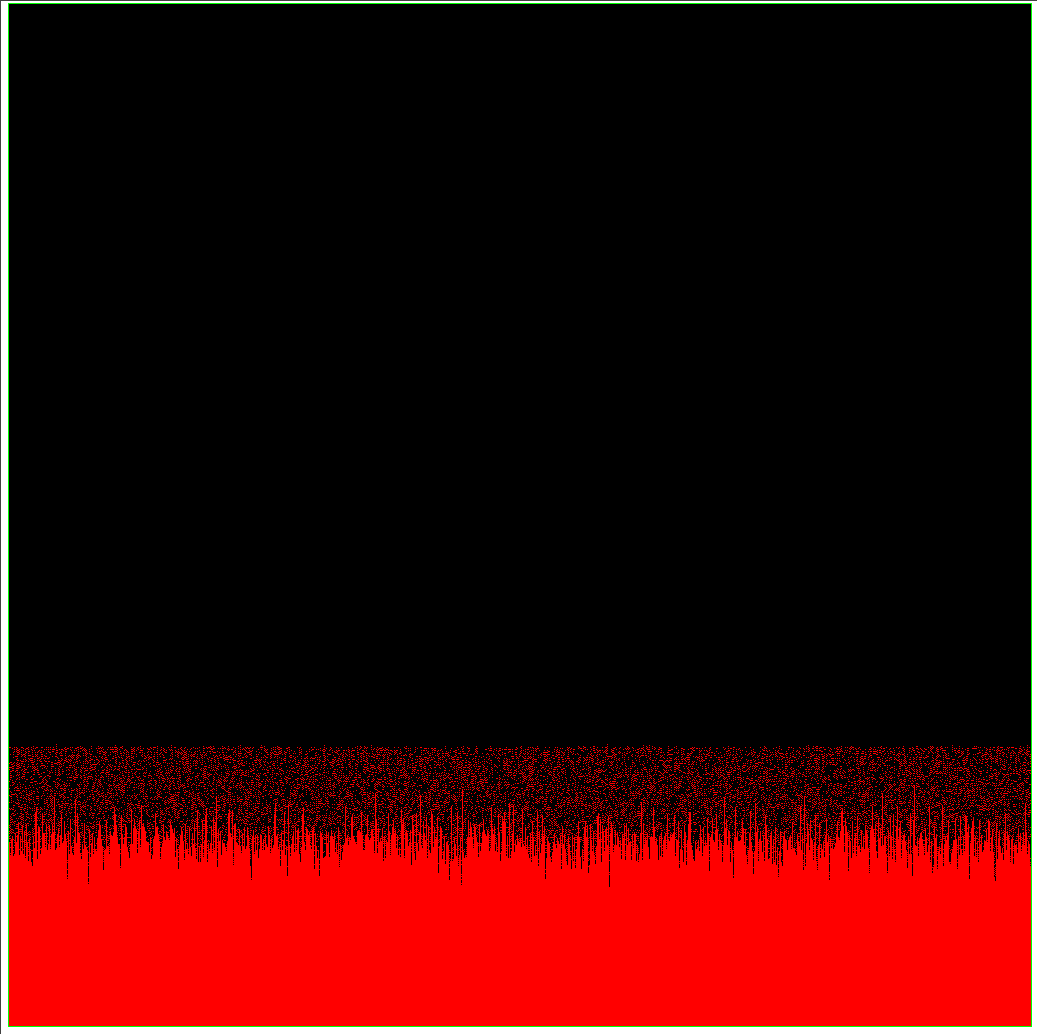
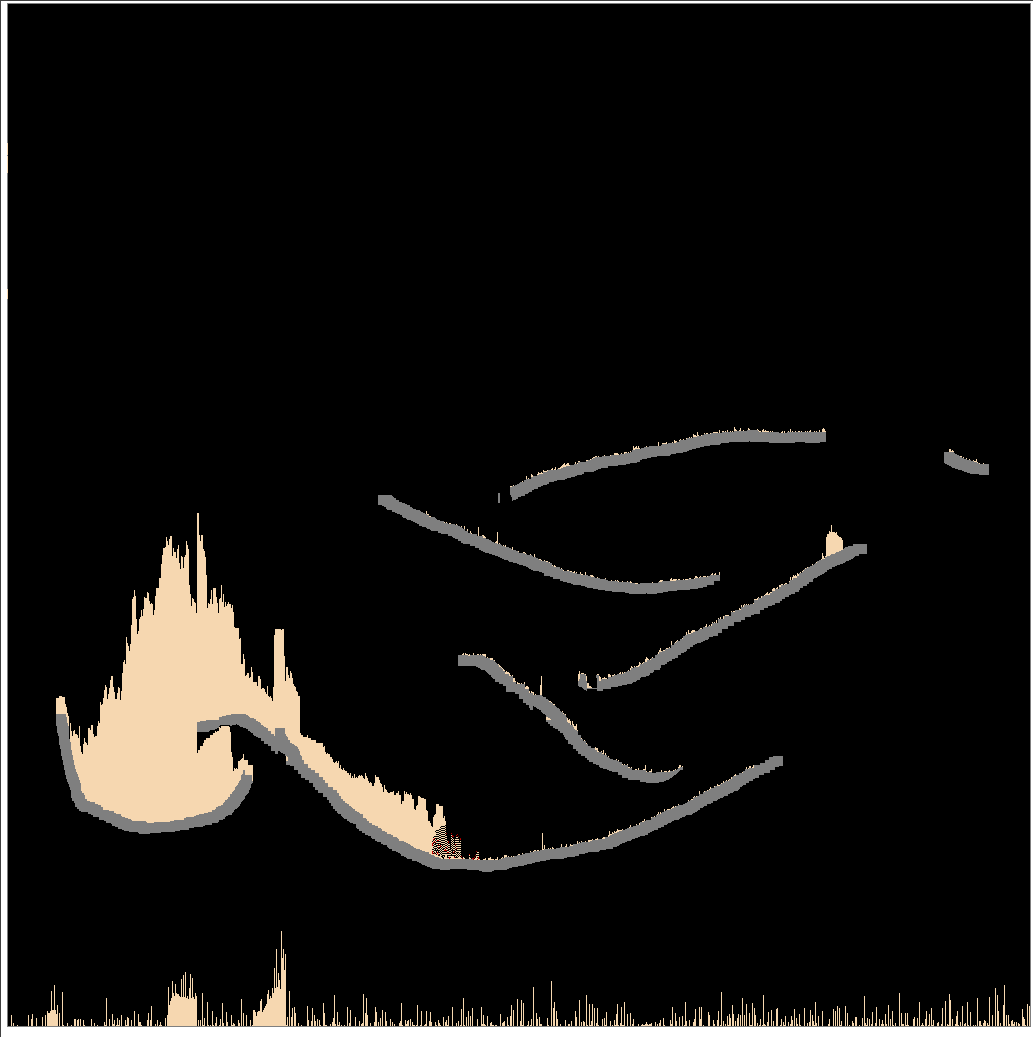
add simple fire

diff --git a/index.js b/index.js
@@ -32,59 +32,92 @@ const vertex_shader = `
   }
 `
 
+const sand = [ 246, 215, 176, 255 ]
+const wall = [ 127, 127, 127, 255 ]
+const empty = [ 0, 0, 0, 255 ]
+const fire = [ 255, 0, 0, 255 ]
+const fireB1 = [ 204, 0, 0, 255 ]
+const fireB2 = [ 153, 0, 0, 255 ]
+
 // TODO: get the passed in scale to work
 const fragment_shader = `
-  precision mediump float;
+  precision highp float;
   uniform sampler2D state;
   // uniform vec2 scale;
+  uniform highp float seed;
   #define scale vec2(1024.0, 1024.0)
 
-  int get(int x, int y) {
-    return int(texture2D(state, (gl_FragCoord.xy + vec2(x, y)) / scale).r);
-  }
+  // 246,215,176
+  #define sand vec4(0.9647058823529412, 0.8431372549019608, 0.6901960784313725, 1.0)
+  // 127,127,127
+  #define wall vec4(0.4980392156862745, 0.4980392156862745, 0.4980392156862745, 1.0)
+  // 0,0,0
+  #define empty vec4(0.0, 0.0, 0.0, 1.0)
 
-  int getborder(int x, int y) {
-    return int(texture2D(state, (gl_FragCoord.xy + vec2(x, y)) / scale).g);
+  // 255, 0, 0
+  #define fire vec4(1.0, 0.0, 0.0, 1.0)
+  // 204, 0, 0
+  #define fire_burnout_1 vec4(0.8, 0.0, 0.0, 1.0)
+  // 153, 0, 0
+  #define fire_burnout_2 vec4(0.6, 0.0, 0.0, 1.0)
+
+  vec4 get(int x, int y) {
+    return vec4(texture2D(state, (gl_FragCoord.xy + vec2(x, y)) / scale));
+  }
+  
+  float rand(vec2 co){
+    return fract(sin(dot(co, vec2(12.9898, 78.233))) * 43758.5453);
   }
 
   void main() {
-    bool iswall = getborder(0, 0) > 0;
+    vec4 current = vec4(get(0, 0));
+    bool iswall = current == wall;
+    bool sandontop = get(0, 1) == sand;
+    bool onbottom = get(0, -1) == sand || get(0, -1) == wall;
+    bool issand = current == sand;
 
-    bool particleontop = get(0, 1) > 0;
-    bool wallonbottom = getborder(0, -1) > 0;
-    bool particleonbottom = get(0, -1) > 0;
-    bool onbottom = wallonbottom || particleonbottom;
-    bool filled = get(0, 0) > 0;
-
-    /*if (scale.x == 1024.0) {
-      gl_FragColor = vec4(0.0, 0.0, 1.0, 1.0);
-    } else if (scale.x > 1024.0) {
-      gl_FragColor = vec4(1.0, 0.0, 0.0, 1.0);
-    } else if (scale.x == 0.0 && scale.y == 0.0) {
-      gl_FragColor = vec4(0.0, 1.0, 1.0, 1.0);
-    }*/
+    bool isfireadjacent =
+      get(0, -1) == fire ||
+      get(1, -1) == fire ||
+      get(-1, -1) == fire ||
+      get(1, 0) == fire ||
+      get(-1, 0) == fire ||
+      get(1, 1) == fire ||
+      get(-1, 1) == fire;
 
     if (iswall) {
-      gl_FragColor = vec4(0.0, 1.0, 0.0, 1.0);
+      gl_FragColor = wall;
     } else {
-      // particle lands on something = filled
-      if (filled && onbottom) {
-        gl_FragColor = vec4(1.0, 0.0, 0.0, 1.0);
-      }
+      if (issand) {
+        // particle exposed to fire = fire
+        if (isfireadjacent && rand(vec2(gl_FragCoord) * seed) > 0.5) {
+          gl_FragColor = fire;
+        // particle lands on something = filled
+        } else if (onbottom) {
+          gl_FragColor = sand;
 
+        // particle is falling out of this cell, nothing falling in = empty
+        } else {
+          gl_FragColor = empty;
+        }
+      }
+      
       // particle is falling into this cell = filled
-      else if (!filled && particleontop) {
-        gl_FragColor = vec4(1.0, 0.0, 0.0, 1.0);
+      else if (sandontop) {
+        gl_FragColor = sand;
       }
 
-      // particle is falling out of this cell, nothing falling in = empty
-      else if (filled && !onbottom) {
-        gl_FragColor = vec4(0.0, 0.0, 0.0, 1.0);
+      else if (current == fire) {
+        gl_FragColor = fire_burnout_1;
+      } else if (current == fire_burnout_1) {
+        gl_FragColor = fire_burnout_2;
+      } else if (current == fire_burnout_2) {
+        gl_FragColor = empty;
       }
 
       // not filled, nothing on bottom
       else {
-        gl_FragColor = vec4(0.0, 0.0, 0.0, 1.0);
+        gl_FragColor = empty;
       }
     }
   }
@@ -171,18 +204,21 @@ function step (gl, stepBuffer, frontTexture, backTexture, sizeX, sizeY, program)
   const scaleV = new Float32Array([ sizeX, sizeY ])
   gl.uniform2fv(scale, scaleV)
 
+  const seed = gl.getUniformLocation(program, 'seed')
+  gl.uniform1f(seed, Math.random())
+
   drawQuad(gl, program)
 }
 
-function getRandomCells (sizeX, sizeY, concentration) {
+function getRandomCells (sizeX, sizeY, concentration, color) {
   const source = new Uint8Array(sizeX * sizeY * 4)
   for (let i = 0; i < sizeX * sizeY; ++i) {
     const pixi = i * 4
     const isAlive = Math.random() < concentration
-    source[pixi] = isAlive ? 255 : 0
-    source[pixi + 1] = 0
-    source[pixi + 2] = 0
-    source[pixi + 3] = 255
+    const cellColor = isAlive ? color : [ 0, 0, 0, 255 ]
+    for (let component = 0; component < 4; ++component) {
+      source[pixi + component] = cellColor[component]
+    }
   }
 
   return source
@@ -202,8 +238,8 @@ function setBorder (source, sizeX, sizeY, color) {
 }
 
 function setRandom (gl, texture, sizeX, sizeY, concentration) {
-  const source = getRandomCells(sizeX, sizeY, concentration)
-  setBorder(source, sizeX, sizeY, [0, 255, 0, 255])
+  const source = getRandomCells(sizeX, sizeY, concentration, sand)
+  setBorder(source, sizeX, sizeY, wall)
 
   gl.bindTexture(gl.TEXTURE_2D, texture)
   gl.texSubImage2D(gl.TEXTURE_2D, 0, 0, 0, sizeX, sizeY, gl.RGBA, gl.UNSIGNED_BYTE, source)
@@ -273,15 +309,19 @@ async function main () {
   const brushes = [
     {
       name: 'sand',
-      color: [255, 0, 0, 255]
+      color: sand
     },
     {
       name: 'wall',
-      color: [0, 255, 0, 255]
+      color: wall
+    },
+    {
+      name: 'fire',
+      color: fire
     },
     {
       name: 'erase',
-      color: [0, 0, 0, 255]
+      color: empty
     }
   ]
   let brushType = 0
@@ -327,7 +367,7 @@ async function main () {
 
     drawState(gl, sizeX, sizeY, frontTexture, copyProgram)
     frames++
-    await new Promise(resolve => setTimeout(resolve, 8))
+    await new Promise(resolve => setTimeout(resolve, 0))
   }
 }
 
